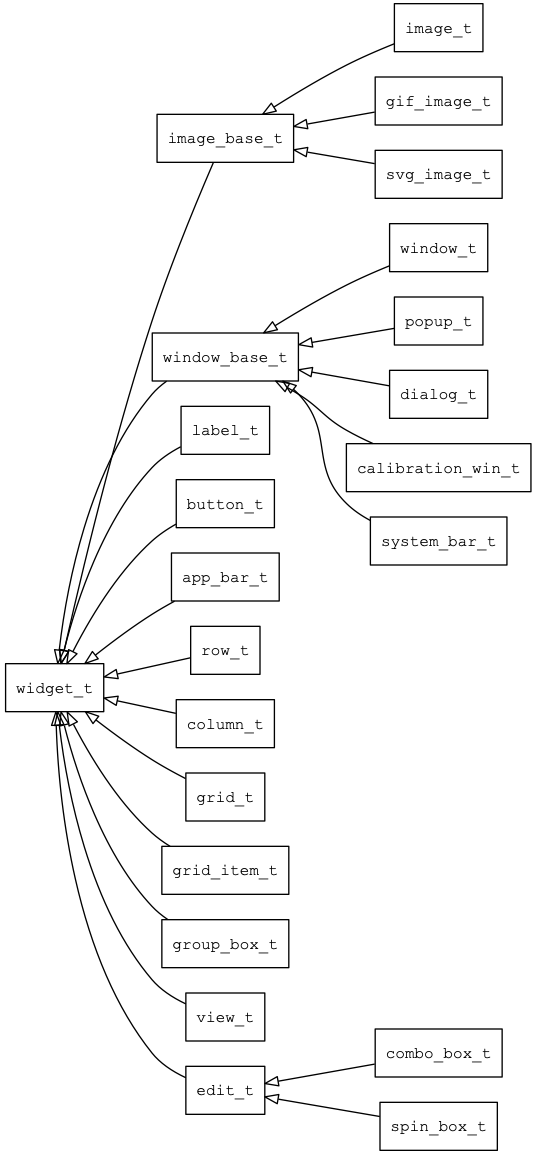
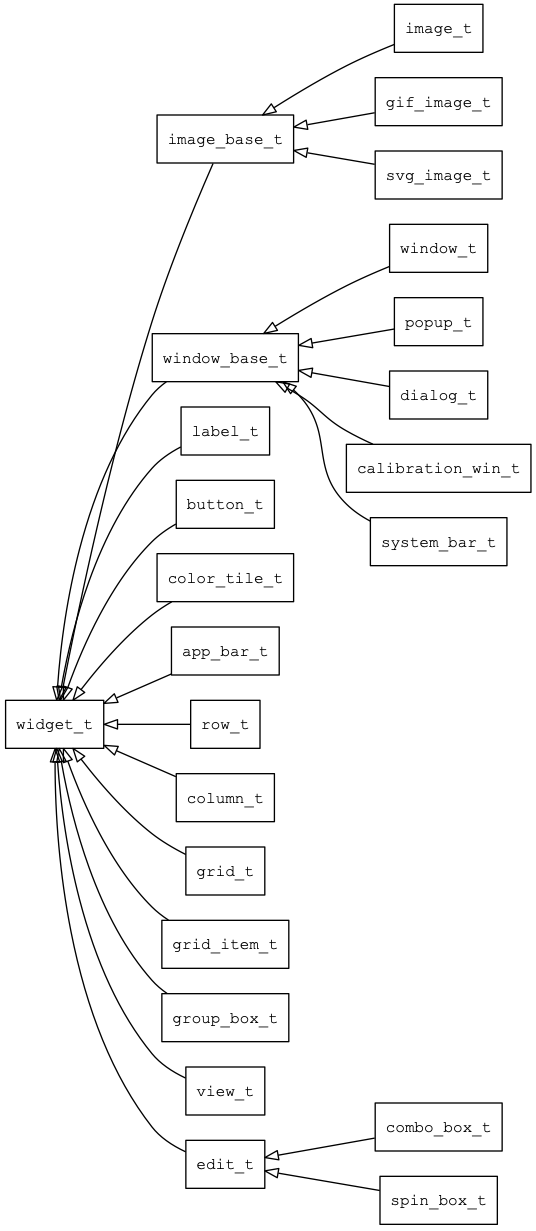
update docs

diff --git a/src/widgets/color_tile.c b/src/widgets/color_tile.c
@@ -42,6 +42,9 @@ static ret_t color_tile_get_prop(widget_t* widget, const char* name, value_t* v)
   if (tk_str_eq(name, WIDGET_PROP_BG_COLOR)) {
     value_set_str(v, color_tile->bg_color);
     return RET_OK;
+  } else if (tk_str_eq(name, WIDGET_PROP_VALUE)) {
+    value_set_uint32(v, color_tile->bg.color);
+    return RET_OK;
   } else if (tk_str_eq(name, WIDGET_PROP_BORDER_COLOR)) {
     value_set_str(v, color_tile->border_color);
     return RET_OK;
@@ -55,6 +58,10 @@ static ret_t color_tile_set_prop(widget_t* widget, const char* name, const value
 
   if (tk_str_eq(name, WIDGET_PROP_BG_COLOR)) {
     return color_tile_set_bg_color(widget, value_str(v));
+  } else if (tk_str_eq(name, WIDGET_PROP_VALUE)) {
+    color_t c;
+    c.color = value_int(v);
+    return color_tile_set_value(widget, c);
   } else if (tk_str_eq(name, WIDGET_PROP_BORDER_COLOR)) {
     return color_tile_set_border_color(widget, value_str(v));
   }
@@ -93,15 +100,9 @@ widget_t* color_tile_cast(widget_t* widget) {
 }
 
 ret_t color_tile_set_bg_color(widget_t* widget, const char* color) {
-  color_tile_t* color_tile = COLOR_TILE(widget);
-  return_value_if_fail(color_tile != NULL && color != NULL, RET_BAD_PARAMS);
+  return_value_if_fail(widget != NULL && color != NULL, RET_BAD_PARAMS);
 
-  color_tile->bg = color_parse_simple(color);
-  color_hex_str(color_tile->bg, color_tile->bg_color);
-
-  widget_invalidate(widget, NULL);
-
-  return RET_OK;
+  return color_tile_set_value(widget, color_parse_simple(color));
 }
 
 ret_t color_tile_set_border_color(widget_t* widget, const char* color) {
@@ -120,10 +121,18 @@ ret_t color_tile_set_value(widget_t* widget, color_t color) {
   color_tile_t* color_tile = COLOR_TILE(widget);
   return_value_if_fail(color_tile != NULL, RET_BAD_PARAMS);
 
-  color_tile->bg = color;
-  color_hex_str(color_tile->bg, color_tile->bg_color);
+  if (color_tile->bg.color != color.color) {
+    event_t e = event_init(EVT_VALUE_WILL_CHANGE, widget);
+    widget_dispatch(widget, &e);
 
-  widget_invalidate(widget, NULL);
+    color_tile->bg = color;
+    color_hex_str(color_tile->bg, color_tile->bg_color);
+
+    e = event_init(EVT_VALUE_CHANGED, widget);
+    widget_dispatch(widget, &e);
+
+    widget_invalidate(widget, NULL);
+  }
 
   return RET_OK;
 }

diff --git a/src/widgets/color_tile.h b/src/widgets/color_tile.h
@@ -31,6 +31,30 @@ BEGIN_C_DECLS
  * @parent widget_t
  * @annotation ["scriptable"]
  * 色块控件。
+ *
+ * 用来显示一个颜色块，它通过属性而不是主题来设置颜色，方便在运行时动态改变颜色。
+ *
+ * 可以使用value属性访问背景颜色的颜色值。
+ *
+ * color\_tile\_t是[widget\_t](widget_t.md)的子类控件，widget\_t的函数均适用于color\_tile\_t控件。
+ *
+ * 在xml中使用"color_tile"标签创建色块控件。如：
+ *
+ * ```xml
+ * <color_tile x="c" y="m" w="80" h="30" bg_color="green" />
+ * ```
+ *
+ * > 更多用法请参考：
+ * [color_tile](https://github.com/zlgopen/awtk/blob/master/demos/assets/raw/ui/color_picker_rgb.xml)
+ *
+ * 在c代码中使用函数color_tile\_create创建色块控件。如：
+ *
+ * ```c
+ *  widget_t* color_tile = color_tile_create(win, 10, 10, 128, 30);
+ *  color_tile_set_bg_color(color_tile, "red");
+ * ```
+ * > 创建之后，用color\_tile\_set\_bg\_color设置背景颜色。
+ *
  */
 typedef struct _color_tile_t {
   widget_t widget;

diff --git a/tests/color_tile_test.cc b/tests/color_tile_test.cc
@@ -27,6 +27,19 @@ TEST(ColorTile, basic) {
   widget_destroy(w);
 }
 
+TEST(ColorTile, value) {
+  value_t v1;
+  value_t v2;
+  widget_t* w = color_tile_create(NULL, 10, 20, 30, 40);
+
+  value_set_uint32(&v1, 0x112233);
+  ASSERT_EQ(widget_set_prop(w, WIDGET_PROP_VALUE, &v1), RET_OK);
+  ASSERT_EQ(widget_get_prop(w, WIDGET_PROP_VALUE, &v2), RET_OK);
+  ASSERT_EQ(value_int(&v1), value_int(&v2));
+
+  widget_destroy(w);
+}
+
 TEST(ColorTile, clone) {
   value_t v1;
   widget_t* w1 = color_tile_create(NULL, 10, 20, 30, 40);

diff --git a/docs/manual.md b/docs/manual.md
@@ -26,6 +26,7 @@
 * [image\_base\_t](manual/image_base_t.md) 图片控件基类。
 * [spin\_box\_t](manual/spin_box_t.md) 数值编辑器控件。
 * [combo\_box\_t](manual/combo_box_t.md) 下拉列表控件。
+* [color\_tile\_t](manual/color_tile_t.md) 色块控件。
 
 * [row\_t](manual/row_t.md) 行控件。
 * [column\_t](manual/column_t.md) 列控件。

diff --git a/docs/changes.md b/docs/changes.md
@@ -4,6 +4,7 @@
   * 重命名NAME\_LEN为TK\_NAME\_LEN。
   * 增加函数：widget\_animate\_value\_to
   * 修改widget\_animator\_time\_elapse计算次数的BUG。
+  * 整理控件API文档：color\_tile
 
 * 2018/12/25
   * 整理控件API文档：row/column/grid/grid\_item/view/group\_box/app\_bar/system\_bar
